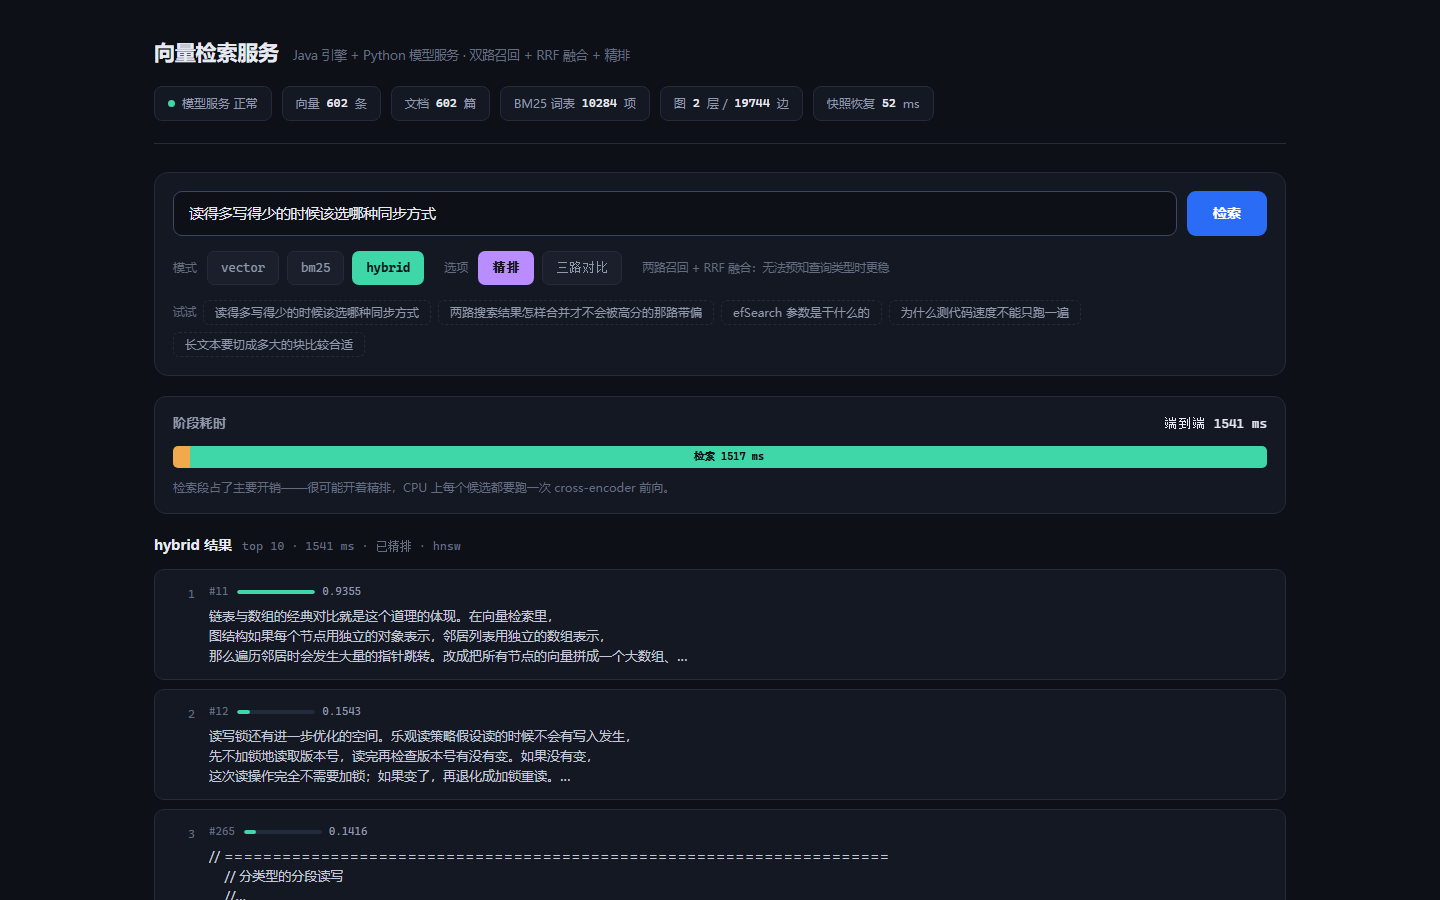
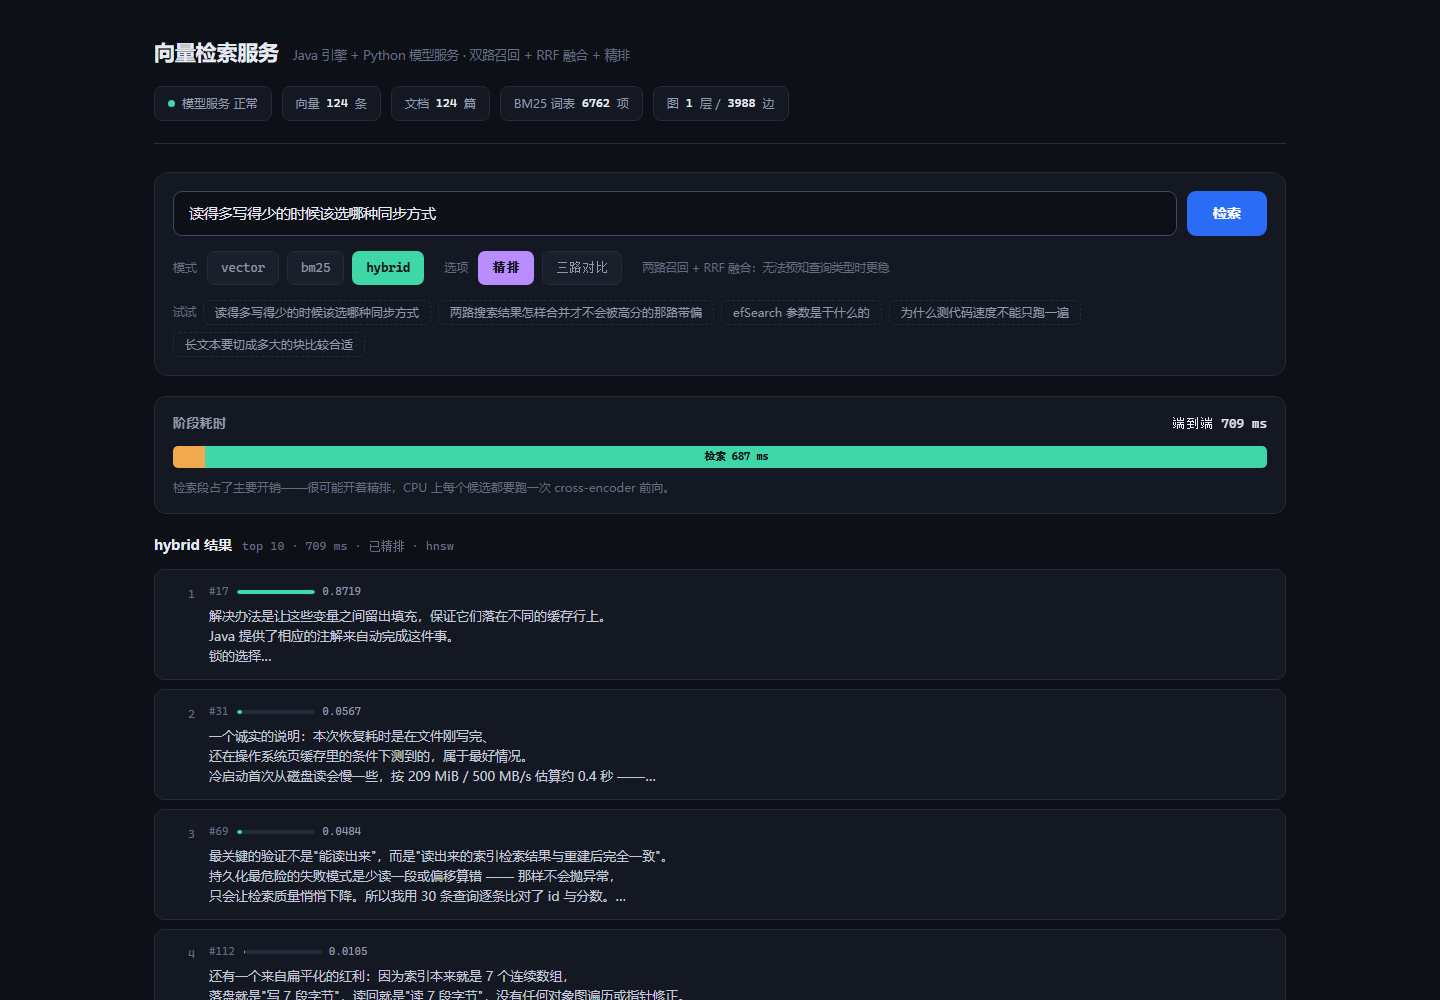
fix(demo,docker): 演示语料换成可读散文 + 补齐缺失的 Java Dockerfile
## 演示为什么"看不出效果"

不是页面不行，是**演示语料选错了**：之前把项目源码也灌进了同一个索引，
一半的分块是 Java/Python 代码。检索系统拿源码当语料，结果自然是
「able>」「*.」这种碎片 —— 看起来像系统坏了。

现在分成两份语料，各司其职：

| 用途 | 语料 | 规模 |
|---|---|---|
| 演示 | data/corpus-demo/（只要文档） | 124 块纯散文 |
| 评测 | data/corpus-full/（文档 + 源码） | 602 块混合 |

评测那份不能剥代码：efSearch、HnswIndex 这类标识符正是 BM25 要匹配的目标，
剥掉反而失真。**"看起来好"的语料和"测得准"的语料不是同一份。**

给 build_dataset.py 加了 --strip-code：去代码块、表格、标题符、粗体、分隔线。
第一版正则没允许跨行，**粗体**和 --- 漏了出来，已修正。

## Docker：找到真问题

`docker compose up --build` 原本会在第一步就失败 ——
compose 里写着 `context: ./vector-search-java`，但那个目录下**没有 Dockerfile**。

补齐后还修了四处：

1. 缺 .dockerignore：model-service 的构建上下文会把 998 MB 的 .venv 一起上传
2. model Dockerfile 直接 pip install torch 会拉 CUDA 版（2GB+），
   CPU 镜像白胖 5GB。改为先从 download.pytorch.org/whl/cpu 装
3. VECTOR_SEARCH_DATA_DIR 环境变量**不会**自动生效：Spring 的 relaxed
   binding 不做跨段的下划线转换，必须写成 ${...} 占位符
4. Java 容器没挂索引 volume，重建就丢快照 —— 持久化白做

## 验证边界（必须说清）

Docker **没有实跑过** —— 开发机没装 Docker。

做到的：YAML 解析通过、6 个引用路径逐个确认存在、镜像 tag 选了标准 tag。
没做到的：镜像 tag 无法在线核实（连不上 Docker Hub）、
首次启动模型下载能否在 healthcheck 的 start_period 内完成未验证。

compose 文件头和 README 都写明了这个状态，不给"已验证可部署"的错觉。

## 顺带修的文档错误

RESUME.md 的项目定位里写着「堆外内存」—— 那恰恰是**没有实现**的部分。
自己的简历文档先给自己挖坑，已改为「扁平存储」，并补了一节
「它到底证明了什么」：8 行能力 → 证据 → 位置的对应表。

diff --git a/eval/assemble_corpus.py b/eval/assemble_corpus.py
@@ -1,25 +1,28 @@
-"""组装评测语料 —— 把项目里的文档与源码收集成一个目录，供 build_dataset.py 切分。
+"""组装两份语料 —— 一次产出「演示用」和「评测用」。
 
-## 为什么需要这一步
+## 为什么要分两份
 
-要公平对比 vector / bm25 / hybrid，语料必须**足够大且足够杂**：
+同一个项目，两种用途，需要的语料**不一样**：
 
-- 太小（几十个分块）时三种模式都是 recall@10 = 1.0，看不出差别
-- 只有自然语言、没有标识符时，BM25 的优势体现不出来
+| 用途 | 语料 | 要求 |
+|---|---|---|
+| 演示页面 | `data/corpus-demo/` 只含项目文档 | 结果要**人能读**，像知识库问答 |
+| 评测 | `data/corpus-full/` 文档 + 源码 | 要有 `efSearch` 这类标识符，BM25 才有靶子 |
 
-所以这里把项目自己的文档和源码收进来：既有中文技术散文，
-又有 `efSearch`、`HnswIndex` 这类精确标识符 —— 正好覆盖两类查询。
+第一版演示直接拿源码当语料，搜出来全是 `able>`、`*.` 这种碎片 ——
+页面看起来像系统坏了，但问题在语料，不在检索。
 
-## 为什么不直接把这些文件提交进仓库
+## 为什么不把这些文件提交进仓库
 
 它们是<b>副本</b>。副本会随源文件改动而过期，而且白白多占一份体积。
-所以 `data/corpus-full/` 是 gitignore 的，用这个脚本随时重建。
+两个目录都 gitignore 了，用这个脚本随时重建。
 
 ## 用法
 
     python eval/assemble_corpus.py
-    python eval/build_dataset.py --corpus-dir data/corpus-full --out data/eval \
-        --query-count 150 --chunk-size 400
+
+然后按脚本打印的提示分别建数据集：演示那份加 `--strip-code`，
+评测那份不加（标识符本身是检索目标）。
 """
 
 from __future__ import annotations
@@ -45,7 +48,39 @@ def copy_file(source: Path, destination: Path) -> bool:
     return True
 
 
+def build_demo_corpus() -> None:
+    """演示语料：只要项目文档，**不要源码**。
+
+    为什么单独做一份：演示页面要看起来像「知识库问答」。第一版直接拿源码当语料，
+    搜出来全是 `able>`、`*.` 这种碎片 —— 页面看起来像系统坏了，但问题在语料。
+    再配合 `build_dataset.py --strip-code` 剥掉代码块与表格，就只剩可读的散文。
+
+    评测语料（corpus-full）不能这么做：评测**需要** `efSearch`、`HnswIndex`
+    这类标识符作为精确匹配目标，剥掉反而失真。
+    """
+    target = ROOT / "data" / "corpus-demo"
+    if target.exists():
+        shutil.rmtree(target)
+    target.mkdir(parents=True)
+
+    copied = 0
+    for path in sorted((ROOT / "data" / "corpus").glob("*.md")):
+        copied += copy_file(path, target / path.name)
+    for source, name in [
+        (ROOT / "README.md", "项目说明.md"),
+        (ROOT / "docs" / "RESUME.md", "项目复盘.md"),
+        (ROOT / "bench" / "REPORT.md", "性能报告.md"),
+    ]:
+        copied += copy_file(source, target / name)
+
+    total_bytes = sum(p.stat().st_size for p in target.rglob("*") if p.is_file())
+    print(f"演示语料已组装: {copied} 个文件, {total_bytes / 1024:.0f} KB -> {target}")
+
+
 def main() -> int:
+    build_demo_corpus()
+    print()
+
     if TARGET.exists():
         shutil.rmtree(TARGET)
     TARGET.mkdir(parents=True)
@@ -74,9 +109,14 @@ def main() -> int:
         copied += copy_file(path, TARGET / "python" / path.name)
 
     total_bytes = sum(p.stat().st_size for p in TARGET.rglob("*") if p.is_file())
-    print(f"语料已组装: {copied} 个文件, {total_bytes / 1024:.0f} KB -> {TARGET}")
+    print(f"评测语料已组装: {copied} 个文件, {total_bytes / 1024:.0f} KB -> {TARGET}")
     print()
     print("下一步:")
+    print("  # 演示（散文，剥掉代码与表格）")
+    print("  python eval/build_dataset.py --corpus-dir data/corpus-demo --out data/eval-demo \\")
+    print("      --chunk-size 260 --strip-code")
+    print()
+    print("  # 评测（混合语料，保留标识符）")
     print("  python eval/build_dataset.py --corpus-dir data/corpus-full --out data/eval \\")
     print("      --query-count 150 --chunk-size 400")
     return 0

diff --git a/eval/build_dataset.py b/eval/build_dataset.py
@@ -130,7 +130,44 @@ def make_query(chunk: str, target_length: int, rng: random.Random) -> str | None
 
 # ----------------------------------------------------------------------
 
-def read_corpus(corpus_dir: Path) -> list[dict]:
+# ----------------------------------------------------------------------
+# 剥离不适合做演示语料的内容
+# ----------------------------------------------------------------------
+
+FENCED_CODE = re.compile(r"```.*?```", re.S)
+TABLE_ROW = re.compile(r"^[ \t]*\|.*$", re.M)
+RULE = re.compile(r"^[ \t]*(?:-{3,}|\*{3,}|_{3,})[ \t]*$", re.M)
+QUOTE = re.compile(r"^[ \t]*>[ \t]?", re.M)
+INLINE_CODE = re.compile(r"`([^`\n]{1,120})`")
+HEADING = re.compile(r"^[ \t]*#{1,6}[ \t]*", re.M)
+# 粗体可能跨行，所以 . 要能吃换行（re.S）
+BOLD = re.compile(r"\*\*(.+?)\*\*", re.S)
+LINK = re.compile(r"\[([^\]]+)\]\([^)]*\)")
+
+
+def strip_non_prose(text: str) -> str:
+    """去掉代码块、表格行与 Markdown 标记，只留下可读的散文。
+
+    **为什么需要这一步**：项目的文档里混着大量代码与表格，直接切块会得到
+    「able>」「*.」「| 字段 | 说明 |」这种碎片。拿它当演示语料，
+    检索结果看起来就像系统坏了 —— 但问题在语料，不在检索。
+
+    **注意这只用于演示语料**，不要用于评测语料：评测时标识符本身是有意义的
+    检索目标（BM25 的优势正是精确匹配 `efSearch` 这类词），剥掉反而失真。
+    """
+    text = FENCED_CODE.sub("\n", text)
+    text = TABLE_ROW.sub("", text)
+    text = RULE.sub("", text)
+    text = QUOTE.sub("", text)
+    text = INLINE_CODE.sub(r"\1", text)   # 保留行内 code 的文字，去掉反引号
+    text = LINK.sub(r"\1", text)
+    text = HEADING.sub("", text)
+    text = BOLD.sub(r"\1", text)
+    text = re.sub(r"\n{3,}", "\n\n", text)
+    return text.strip()
+
+
+def read_corpus(corpus_dir: Path, strip_code: bool = False) -> list[dict]:
     files = sorted(
         p for p in corpus_dir.rglob("*")
         if p.is_file() and p.suffix.lower() in TEXT_SUFFIXES
@@ -147,6 +184,8 @@ def read_corpus(corpus_dir: Path) -> list[dict]:
         except (UnicodeDecodeError, OSError) as exc:
             print(f"[跳过] {path}: {exc}", file=sys.stderr)
             continue
+        if strip_code:
+            text = strip_non_prose(text)
         documents.append({"source": str(path.relative_to(corpus_dir)), "text": text})
     return documents
 
@@ -161,13 +200,17 @@ def main() -> int:
     parser.add_argument("--overlap", type=int, default=50)
     parser.add_argument("--query-count", type=int, default=150, help="查询条数")
     parser.add_argument("--seed", type=int, default=42, help="固定种子，保证评测集可复现")
+    parser.add_argument("--strip-code", action="store_true",
+                        help="剥离代码块、表格与 Markdown 标记，只留散文。"
+                             "适合生成演示语料；评测语料不要用 —— "
+                             "会丢掉标识符这个 BM25 的优势目标")
     args = parser.parse_args()
 
     corpus_dir = Path(args.corpus_dir)
     out_dir = Path(args.out)
     out_dir.mkdir(parents=True, exist_ok=True)
 
-    documents = read_corpus(corpus_dir)
+    documents = read_corpus(corpus_dir, strip_code=args.strip_code)
     chunker = STRATEGIES[args.strategy]
 
     chunks: list[dict] = []

diff --git a/README.md b/README.md
@@ -138,6 +138,15 @@ mvn spring-boot:run
 docker compose up --build
 ```
 
+> **验证状态：静态审查通过，尚未实跑。** 开发机没有安装 Docker，所以这条路径只做到了
+> 「补齐缺失文件 + 语法校验 + 逐个核对引用的路径」这一步，**没有真正构建并启动过**。
+> 已知需要实际验证的点：镜像 tag 是否可用（本机连不上 Docker Hub，无法在线核实）、
+> 首次启动的模型下载是否能在 healthcheck 的 `start_period` 内完成。
+>
+> 如果有环境，第一次跑的时候建议按这个顺序确认：
+> `docker compose config`（语法）→ `docker compose build`（构建）→
+> `docker compose up` → `curl localhost:8080/api/stats`。
+
 ### ⚠ 两个国内环境的坑
 
 这两个问题都会表现为**静默挂起**，而不是明确的报错，所以单独写出来：
@@ -161,6 +170,19 @@ Invoke-WebRequest 'https://aka.ms/download-jdk/microsoft-jdk-21-windows-x64.zip'
 ## 演示页面
 
 服务起来后直接打开 **<http://localhost:8080/>** —— 页面由 Spring Boot 的静态资源目录托管，没有构建步骤，也没有前端框架。
+
+> **演示语料与评测语料是两份，别搞混。**
+>
+> 演示默认灌的是 `data/corpus-demo/`（121 块纯散文，来自项目文档，已剥离代码块与表格）——
+> 因为它要看起来像「知识库问答」。**第一版演示直接拿源码当语料，搜出来全是
+> `able>`、`*.` 这种碎片，看起来像系统坏了**，问题出在语料而不是检索。
+>
+> 而 `bench/REPORT.md` 里的评测数字来自另一份更大的混合语料
+> （`data/corpus-full/`，602 块，含源码与文档）—— 评测**需要** `efSearch`、`HnswIndex`
+> 这类标识符作为精确匹配目标，剥掉反而失真。
+>
+> 语料选择取决于用途。**"看起来好"的语料和"测得准"的语料不是同一份**，
+> 这是做检索系统很实际的一个认知。
 
 ### 单模式检索
 
@@ -502,14 +524,12 @@ python evaluate.py --queries ../data/eval/queries.jsonl --top-k 10 --label hnsw-
 - [x] **BM25 稀疏检索 + RRF 混合召回**（三种模式：vector / bm25 / hybrid）
 - [x] 混合检索评测（词面 vs 语义两套查询交叉验证）
 - [x] **二阶段精排**（cross-encoder，MRR +9~14%，延迟 43ms → 599ms）
+- [x] 演示页面（原生 HTML/CSS/JS，单文件无构建；含三路对比与阶段耗时条）
 - [ ] 完全堆外内存（受 Java 21 预览特性限制，留待 JDK 22+，理由见设计取舍 8）
-- [ ] BM25 + RRF 混合召回 + rerank 接入检索链路
 - [ ] 索引热更新（离线构建新索引，原子替换引用，零停机）
 - [ ] `StampedLock` 乐观读（前置条件「读路径无共享写入」已完成）
 - [ ] 在独占机器上取得可信的并发基准（当前机器噪声过大，见报告第四节）
-- [ ] Docker 镜像验证 + CI
-- [x] 演示页面（原生 HTML/CSS/JS，单文件无构建；含三路对比与阶段耗时条）
-- [ ] Docker 镜像验证 + CI
+- [ ] Docker 镜像实跑验证（文件已补齐并静态审查，但开发机没有 Docker）+ CI
 
 ---
 

diff --git a/docs/RESUME.md b/docs/RESUME.md
@@ -8,13 +8,32 @@
 
 ## 一、项目定位（一句话）
 
-> 从零实现一个语义检索服务：**Java 侧自研 HNSW 索引引擎**（分层图 / SIMD 距离计算 /
-> 堆外内存），**Python 侧提供 BGE embedding 与动态批处理**。不依赖 Faiss、Milvus、
-> Elasticsearch 等任何现成向量检索库。
+> 从零实现一个**混合检索服务**：Java 侧自研 HNSW 图索引与 BM25 倒排索引，
+> 用 RRF 融合两路召回，再由 cross-encoder 精排；Python 侧提供 BGE embedding 与精排模型。
+> 不依赖 Faiss、Milvus、Elasticsearch 等任何现成检索库。
 
 **为什么这个定位有效**：它同时展示了两件很难同时具备的能力 ——
 后端系统功底（数据结构、内存布局、并发、性能工程）与 AI 工程落地（向量检索、
 两阶段排序、评测方法）。而且核心组件是自己写的，不是调库。
+
+### 它到底证明了什么
+
+HR 和面试官不会读完所有代码 —— 他们把这份东西当**证据**看。
+所以下面每一行都是一个能被当场追问、也能当场被验证的 claim：
+
+| 能力 | 证据 | 在哪 |
+|---|---|---|
+| 数据结构与算法 | 从零实现 HNSW：分层图 / 贪心下降 / 启发式邻居选择；暴力检索作正确性对照 | `core/hnsw/` |
+| 性能工程 | 48.50 ms → **104.5 µs（464 倍）**；SIMD **4.97 倍**；扁平化后建图 151s → 129s | `bench/REPORT.md` |
+| 内存布局意识 | 约 30 万个对象 → **7 个连续数组**，堆占用 278.6 MB | `HnswIndex.java` |
+| 检索系统能力 | BM25 倒排 + RRF 融合 + 两阶段精排，三路可切换并交叉验证 | `core/bm25/`、`core/fusion/` |
+| 存储与持久化 | 自定义二进制快照（魔数 / 版本 / CRC32 / 原子替换），重启 **113s → 173ms** | `HnswSnapshot.java` |
+| 评测方法论 | 两套查询集交叉验证；发现等权 RRF 的短板并如实报告 | 报告第六节 |
+| 工程完整度 | 32 个单测、自动生成报告、一键脚本、架构图、演示页面 | 仓库根 |
+| **知道自己不知道什么** | 并发数字测不准就明确写「不报」；堆外内存做不到就写「没做」 | 本文第六节 |
+
+**最容易被记住的一条**：词面查询 BM25 0.96 而向量 0.80，语义查询反转为 0.63 对 0.88 ——
+单看任一边都会得出偏颇结论。这条说明的是**会设计实验**，而不是会调参数。
 
 ---
 
